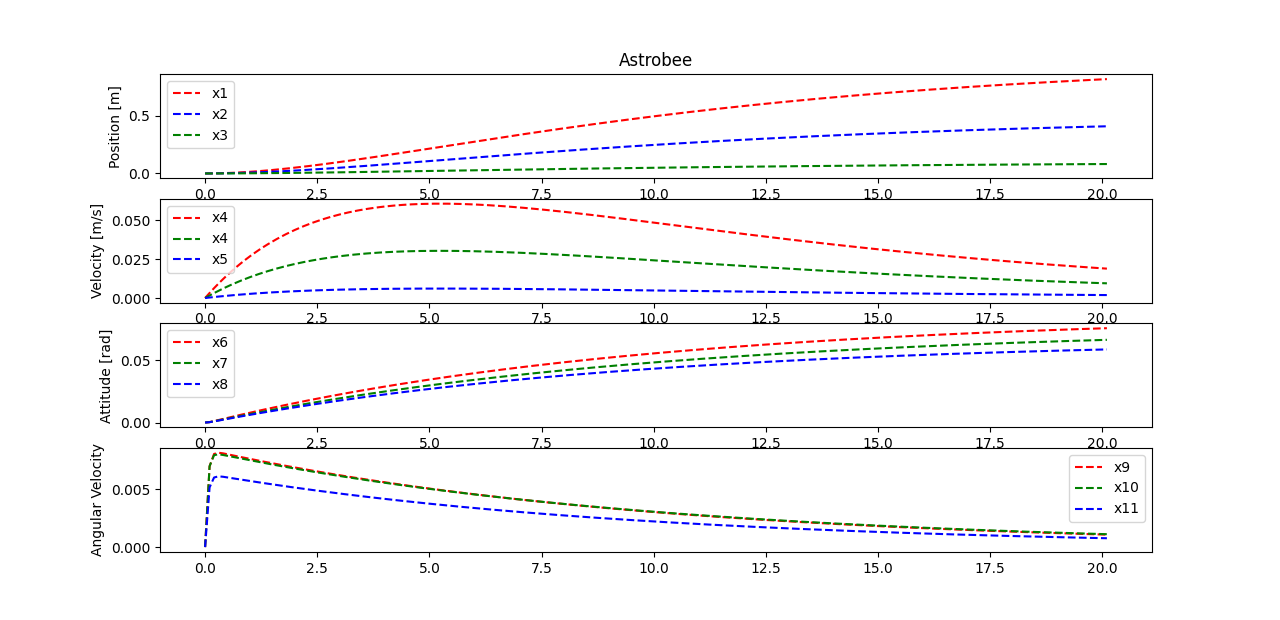
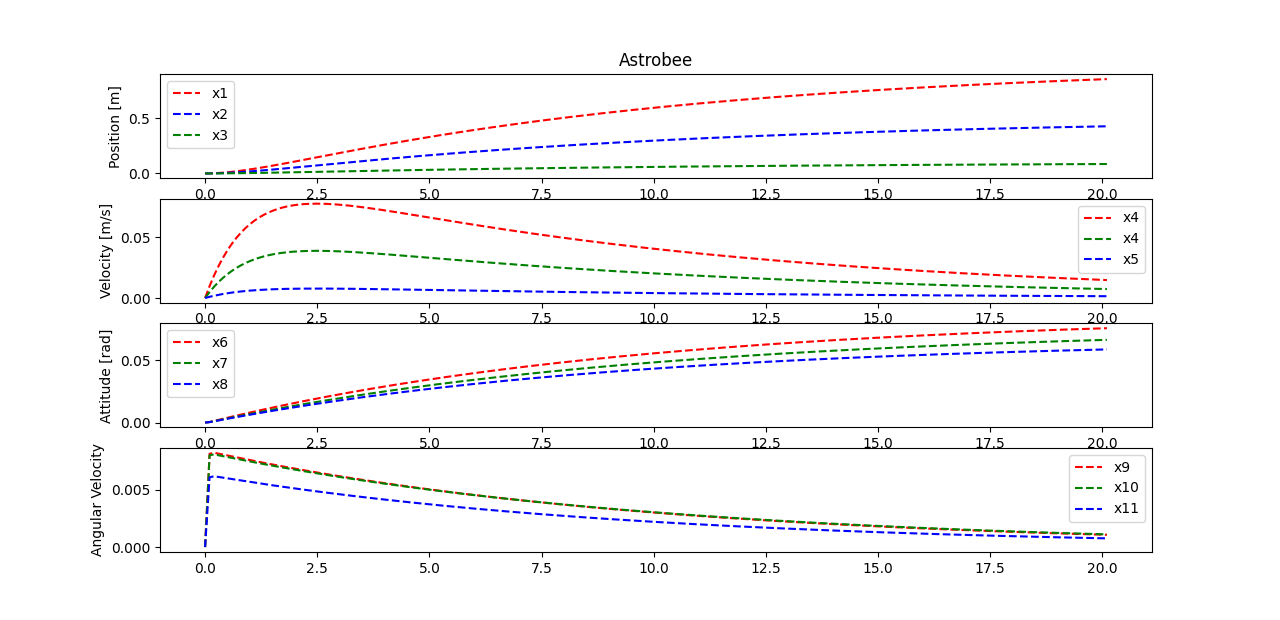
figure update

diff --git a/Assignments/Assignment 3/task3.py b/Assignments/Assignment 3/task3.py
@@ -35,7 +35,7 @@ E, V = np.linalg.eig(Ad.T)
 print(E)
 print(V.T @ Bd)
 
-R_coefficients = 10*np.ones(6)
+R_coefficients = np.ones(6)
 Q_coefficients = np.ones(12)
 
 Q_coefficients[3:6] = Q_coefficients[3:6] + 100
